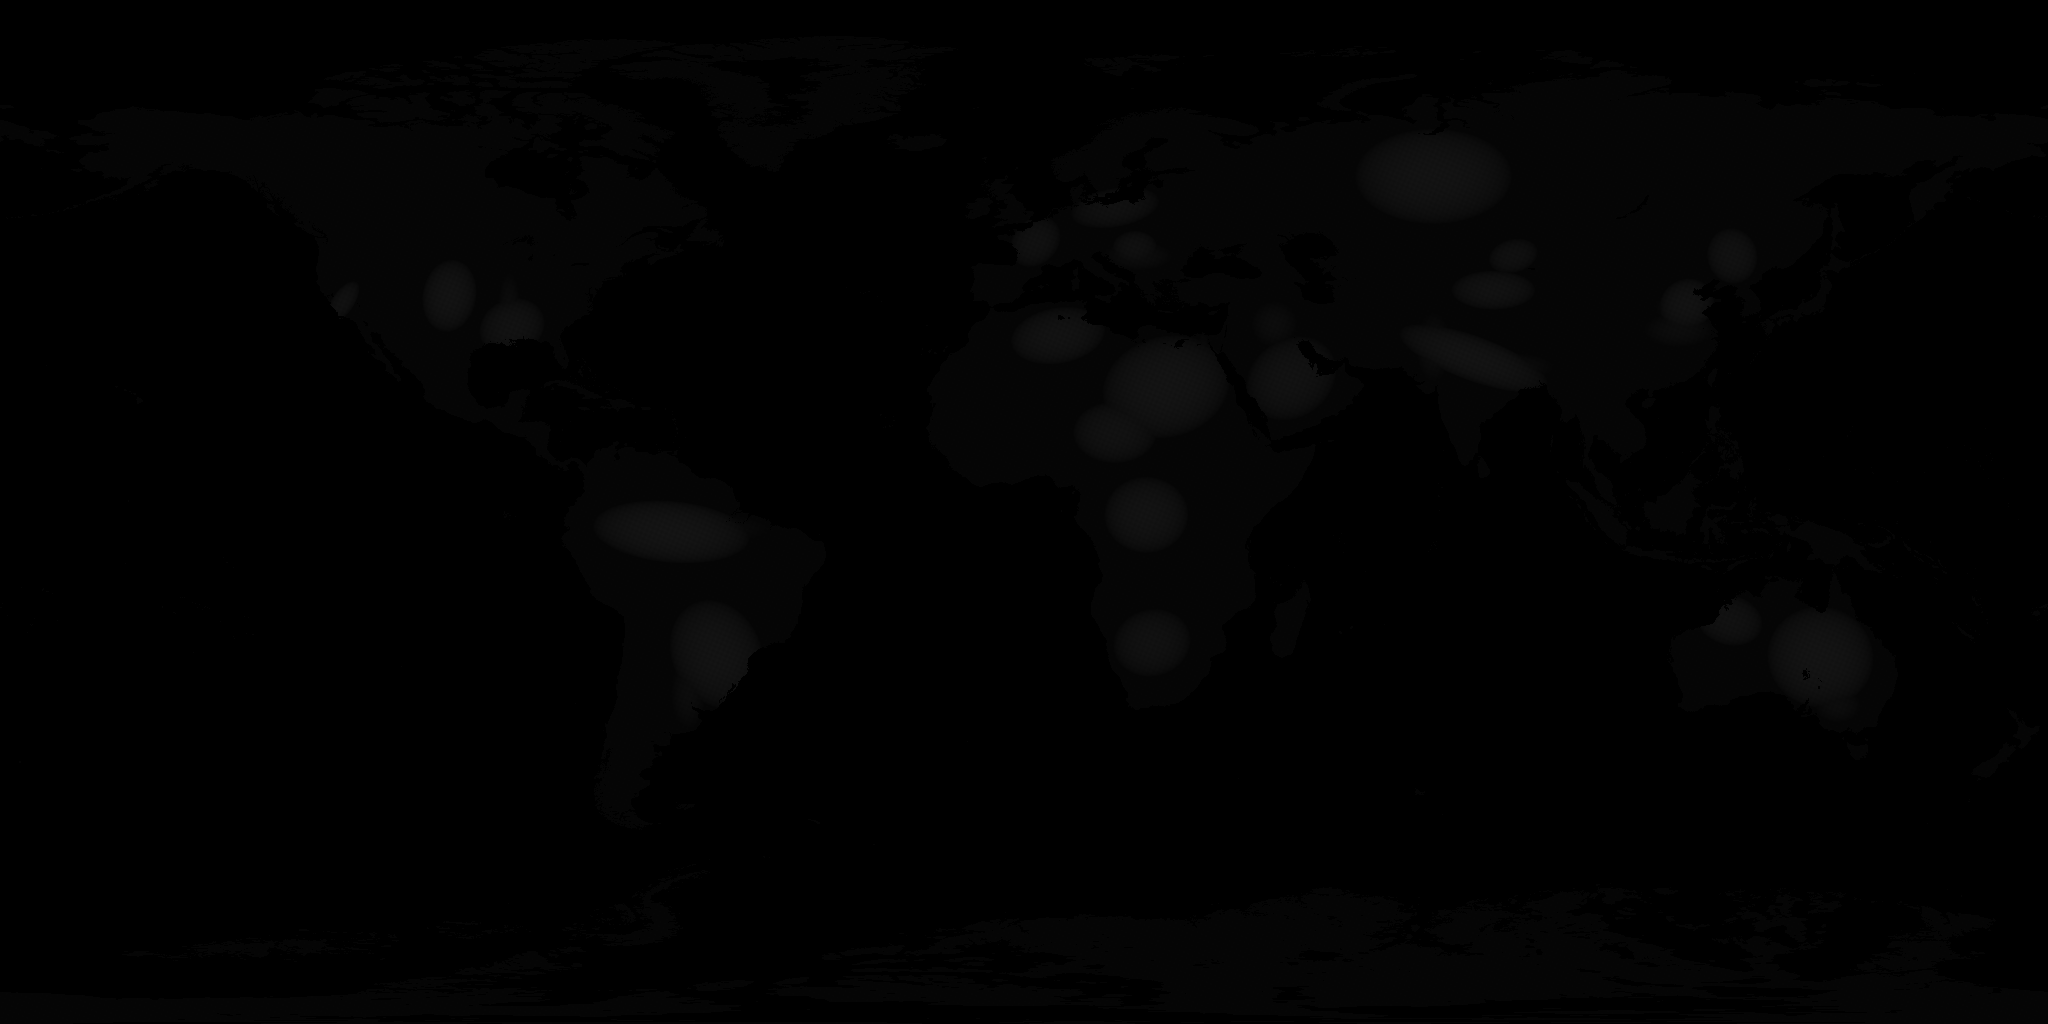
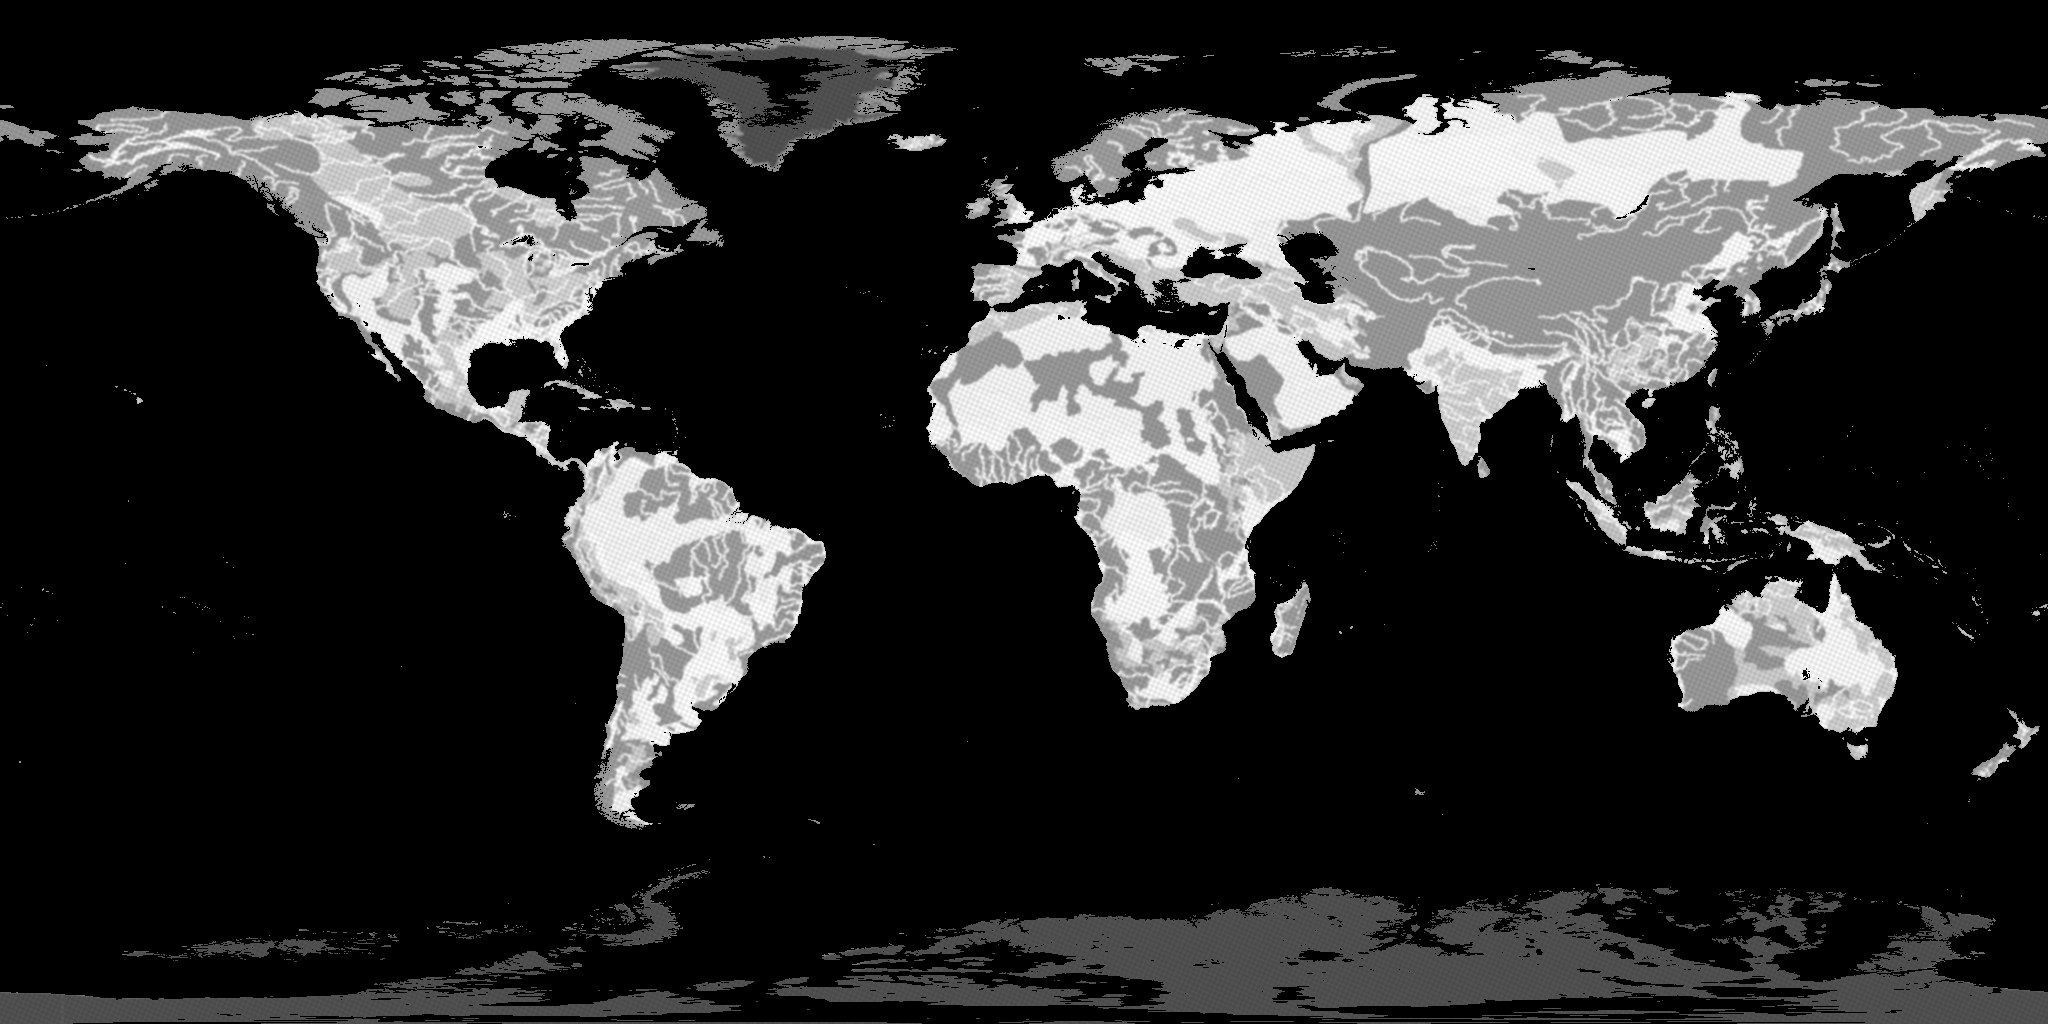
feat(geology): Ingest authentic UNESCO WHYMAP vector polygons for global groundwater aquifers (HYGEO2 classification)

diff --git a/src/main/java/org/ether/society/data/HistoricalMapGenerator.java b/src/main/java/org/ether/society/data/HistoricalMapGenerator.java
@@ -17,6 +17,10 @@ import java.awt.*;
 import java.awt.geom.Path2D;
 import java.awt.image.BufferedImage;
 import java.io.ByteArrayOutputStream;
+import java.io.File;
+import java.io.EOFException;
+import java.nio.ByteBuffer;
+import java.nio.ByteOrder;
 import java.util.ArrayList;
 import java.util.Base64;
 import java.util.List;
@@ -5165,139 +5169,243 @@ public class HistoricalMapGenerator {
     }
 
     public static BufferedImage rasterizeAquiferMap(String type, Scenario scenario) {
+        if (cachedAquiferMap != null) {
+            return cachedAquiferMap;
+        }
+
         int width = 2048, height = 1024;
+        File shpFile = new File("data/maps/whymap_groundwater/extracted/WHYMAP_GWR/shp/whymap_GW_aquifers_v1_poly.shp");
+        if (!shpFile.exists()) {
+            shpFile = new File("data/maps/whymap_groundwater/whymap_GW_aquifers_v1_poly.shp");
+        }
+        File dbfFile = new File("data/maps/whymap_groundwater/extracted/WHYMAP_GWR/shp/whymap_GW_aquifers_v1_poly.dbf");
+        if (!dbfFile.exists()) {
+            dbfFile = new File("data/maps/whymap_groundwater/whymap_GW_aquifers_v1_poly.dbf");
+        }
+        File riversShp = new File("data/maps/whymap_groundwater/extracted/WHYMAP_GWR/shp/whymap_rivers__v1_line.shp");
+        if (!riversShp.exists()) {
+            riversShp = new File("data/maps/whymap_groundwater/whymap_rivers__v1_line.shp");
+        }
+
+        if (shpFile.exists()) {
+            try {
+                // 1. Read DBF hydrogeological classification (HYGEO2)
+                int[] hygeoCodes = null;
+                if (dbfFile.exists()) {
+                    try (java.io.DataInputStream dis = new java.io.DataInputStream(new java.io.BufferedInputStream(new java.io.FileInputStream(dbfFile)))) {
+                        byte[] b32 = new byte[32];
+                        dis.readFully(b32);
+                        int numRecs = (b32[4] & 0xFF) | ((b32[5] & 0xFF) << 8) | ((b32[6] & 0xFF) << 16) | ((b32[7] & 0xFF) << 24);
+                        int headerLen = (b32[8] & 0xFF) | ((b32[9] & 0xFF) << 8);
+                        int recLen = (b32[10] & 0xFF) | ((b32[11] & 0xFF) << 8);
+                        dis.skipBytes(headerLen - 32);
+
+                        hygeoCodes = new int[numRecs];
+                        for (int r = 0; r < numRecs; r++) {
+                            byte del = dis.readByte();
+                            byte[] bHygeo = new byte[5];
+                            dis.readFully(bHygeo);
+                            if (recLen > 6) {
+                                dis.skipBytes(recLen - 6);
+                            }
+                            String sH = new String(bHygeo).trim();
+                            try {
+                                hygeoCodes[r] = Integer.parseInt(sH);
+                            } catch (Exception ignored) {
+                                hygeoCodes[r] = 33;
+                            }
+                        }
+                    }
+                }
+
+                // 2. Render WHYMAP aquifer polygons
+                BufferedImage whymapImg = new BufferedImage(width, height, BufferedImage.TYPE_BYTE_GRAY);
+                Graphics2D gw = whymapImg.createGraphics();
+                gw.setColor(new Color(60, 60, 60)); // Baseline
+                gw.fillRect(0, 0, width, height);
+                gw.setRenderingHint(RenderingHints.KEY_ANTIALIASING, RenderingHints.VALUE_ANTIALIAS_ON);
+
+                try (java.io.DataInputStream disShp = new java.io.DataInputStream(new java.io.BufferedInputStream(new java.io.FileInputStream(shpFile), 65536))) {
+                    disShp.skipBytes(100);
+                    int curRec = 0;
+                    while (true) {
+                        try {
+                            int recNum = disShp.readInt();
+                            int contentLenWords = disShp.readInt();
+                            int contentLenBytes = contentLenWords * 2;
+                            if (contentLenBytes <= 0) { curRec++; continue; }
+                            byte[] recBytes = new byte[contentLenBytes];
+                            disShp.readFully(recBytes);
+                            ByteBuffer bb = ByteBuffer.wrap(recBytes).order(ByteOrder.LITTLE_ENDIAN);
+                            int recShapeType = bb.getInt(0);
+                            if (recShapeType == 5 || recShapeType == 15) {
+                                int code = (hygeoCodes != null && curRec < hygeoCodes.length) ? hygeoCodes[curRec] : 11;
+                                int colorVal;
+                                if (code >= 10 && code <= 19) {
+                                    // Major groundwater basins (sedimentary porous aquifers: NSAS, Ogallala, Guaraní, GAB, West Siberia, Paris basin...)
+                                    colorVal = 215 + (code % 5) * 5; // 215 - 240
+                                } else if (code >= 20 && code <= 29) {
+                                    // Complex hydrogeological structures (fissured / karst / layered)
+                                    colorVal = 135 + (code % 5) * 5; // 135 - 160
+                                } else if (code >= 80) {
+                                    // Ice sheets / Glaciers
+                                    colorVal = 20;
+                                } else {
+                                    // Local and shallow aquifers (low-permeability crystalline shields)
+                                    colorVal = 65 + (code % 5) * 4;  // 65 - 85
+                                }
+
+                                int numParts = bb.getInt(36);
+                                int numPoints = bb.getInt(40);
+                                int[] parts = new int[numParts];
+                                for (int p = 0; p < numParts; p++) {
+                                    parts[p] = bb.getInt(44 + p * 4);
+                                }
+                                int ptsOffset = 44 + numParts * 4;
+                                for (int p = 0; p < numParts; p++) {
+                                    int start = parts[p];
+                                    int end = (p + 1 < numParts) ? parts[p + 1] : numPoints;
+                                    if (end > start) {
+                                        Path2D.Double path = new Path2D.Double();
+                                        for (int pt = start; pt < end; pt++) {
+                                            double px = bb.getDouble(ptsOffset + pt * 16);
+                                            double py = bb.getDouble(ptsOffset + pt * 16 + 8);
+                                            double rx = (px + 180.0) / 360.0 * width;
+                                            double ry = (90.0 - py) / 180.0 * height;
+                                            if (pt == start) path.moveTo(rx, ry);
+                                            else path.lineTo(rx, ry);
+                                        }
+                                        path.closePath();
+                                        gw.setColor(new Color(colorVal, colorVal, colorVal));
+                                        gw.fill(path);
+                                    }
+                                }
+                            }
+                            curRec++;
+                        } catch (EOFException eof) {
+                            break;
+                        }
+                    }
+                }
+
+                // 3. Render WHYMAP rivers
+                if (riversShp.exists()) {
+                    gw.setColor(new Color(230, 230, 230));
+                    gw.setStroke(new BasicStroke(1.6f));
+                    try (java.io.DataInputStream disRiv = new java.io.DataInputStream(new java.io.BufferedInputStream(new java.io.FileInputStream(riversShp), 65536))) {
+                        disRiv.skipBytes(100);
+                        while (true) {
+                            try {
+                                int recNum = disRiv.readInt();
+                                int contentLenWords = disRiv.readInt();
+                                int contentLenBytes = contentLenWords * 2;
+                                if (contentLenBytes <= 0) continue;
+                                byte[] recBytes = new byte[contentLenBytes];
+                                disRiv.readFully(recBytes);
+                                ByteBuffer bb = ByteBuffer.wrap(recBytes).order(ByteOrder.LITTLE_ENDIAN);
+                                int recShapeType = bb.getInt(0);
+                                if (recShapeType == 3 || recShapeType == 13) {
+                                    int numParts = bb.getInt(36);
+                                    int numPoints = bb.getInt(40);
+                                    int[] parts = new int[numParts];
+                                    for (int p = 0; p < numParts; p++) parts[p] = bb.getInt(44 + p * 4);
+                                    int ptsOffset = 44 + numParts * 4;
+                                    for (int p = 0; p < numParts; p++) {
+                                        int start = parts[p];
+                                        int end = (p + 1 < numParts) ? parts[p + 1] : numPoints;
+                                        if (end > start) {
+                                            Path2D.Double path = new Path2D.Double();
+                                            for (int pt = start; pt < end; pt++) {
+                                                double px = bb.getDouble(ptsOffset + pt * 16);
+                                                double py = bb.getDouble(ptsOffset + pt * 16 + 8);
+                                                double rx = (px + 180.0) / 360.0 * width;
+                                                double ry = (90.0 - py) / 180.0 * height;
+                                                if (pt == start) path.moveTo(rx, ry);
+                                                else path.lineTo(rx, ry);
+                                            }
+                                            gw.draw(path);
+                                        }
+                                    }
+                                }
+                            } catch (EOFException eof) {
+                                break;
+                            }
+                        }
+                    }
+                }
+                gw.dispose();
+
+                // 4. Apply Gaussian smoothing kernel
+                float[][] blurred = new float[height][width];
+                float[][] k = {
+                    {0.003f, 0.013f, 0.022f, 0.013f, 0.003f},
+                    {0.013f, 0.059f, 0.097f, 0.059f, 0.013f},
+                    {0.022f, 0.097f, 0.159f, 0.097f, 0.022f},
+                    {0.013f, 0.059f, 0.097f, 0.059f, 0.013f},
+                    {0.003f, 0.013f, 0.022f, 0.013f, 0.003f}
+                };
+
+                for (int y = 0; y < height; y++) {
+                    for (int x = 0; x < width; x++) {
+                        float sum = 0.0f;
+                        for (int dy = -2; dy <= 2; dy++) {
+                            int ny = Math.clamp(y + dy, 0, height - 1);
+                            for (int dx = -2; dx <= 2; dx++) {
+                                int nx = (x + dx + width) % width;
+                                int val = whymapImg.getRGB(nx, ny) & 0xFF;
+                                sum += val * k[dy + 2][dx + 2];
+                            }
+                        }
+                        blurred[y][x] = sum;
+                    }
+                }
+
+                // 5. Apply stratigraphic bed variation texture and coastline mask
+                BufferedImage outImg = new BufferedImage(width, height, BufferedImage.TYPE_INT_RGB);
+                for (int y = 0; y < height; y++) {
+                    double lat = 90.0 - (y + 0.5) / height * 180.0;
+                    for (int x = 0; x < width; x++) {
+                        double lon = -180.0 + (x + 0.5) / width * 360.0;
+                        if (!isLand(lon, lat)) {
+                            outImg.setRGB(x, y, 0x000000);
+                            continue;
+                        }
+                        float rawVal = blurred[y][x];
+                        double stratNoise = 0.94 + 0.12 * (Math.sin(lon * 5.0 + lat * 2.0) * Math.cos(lat * 5.0 - lon * 2.0) * 0.5 + 0.5);
+                        int lum = Math.clamp((int) Math.round(rawVal * stratNoise), 0, 255);
+                        outImg.setRGB(x, y, (lum << 16) | (lum << 8) | lum);
+                    }
+                }
+                BufferedImage finalMasked = applyAltimetryCoastlineMask(outImg);
+                cachedAquiferMap = finalMasked;
+                return finalMasked;
+            } catch (Exception e) {
+                logger.warn("WHYMAP shapefile ingestion notice: {}, using procedural aquifer model", e.getMessage());
+            }
+        }
+
+        // Procedural Fallback if shapefile is missing
         BufferedImage img = new BufferedImage(width, height, BufferedImage.TYPE_INT_RGB);
         BufferedImage mask = loadElevationMask();
-
-        // Authentic UNESCO WHYMAP 2022 Regional Sedimentary Basin Groundwater Formations
-        // {centerLon, centerLat, semiLon, semiLat, angleDeg, maxLuminance}
-        double[][] sedimentaryAquiferBasins = {
-            // Nubian Sandstone Aquifer System (NSAS - Egypt, Libya, Chad, Sudan: 2.2M km²)
-            {25.0, 22.0, 11.5, 9.0, 15.0, 240.0},
-            // Ogallala / High Plains Aquifer (US Midwest: 450,000 km²)
-            {-101.0, 38.0, 4.8, 6.5, -10.0, 230.0},
-            // Guaraní Aquifer System (Paraná Basin - Brazil, Paraguay, Argentina, Uruguay: 1.2M km²)
-            {-54.0, -25.0, 8.0, 10.0, 25.0, 235.0},
-            // Great Artesian Basin (GAB - Eastern/Central Australia: 1.7M km²)
-            {140.0, -25.5, 9.5, 9.0, -15.0, 240.0},
-            // Northwest Sahara Aquifer System (NWSAS / SASS - Algeria, Tunisia, Libya: 1.0M km²)
-            {6.0, 31.0, 8.5, 5.0, 10.0, 225.0},
-            // Indo-Gangetic Alluvial Foreland Basin (Indus, Ganges, Brahmaputra)
-            {79.0, 27.0, 14.0, 4.0, -20.0, 235.0},
-            // North China Plain Cenozoic Aquifer (Huang-Huai-Hai Plain)
-            {116.5, 36.5, 5.0, 4.5, 30.0, 225.0},
-            // Songliao Sedimentary Basin (Northeast China)
-            {124.5, 45.0, 4.5, 5.0, 15.0, 210.0},
-            // West Siberian Artesian Basin (Vast Mesozoic-Cenozoic Sedimentary Basin: 3.0M km²)
-            {72.0, 59.0, 14.0, 8.5, 0.0, 230.0},
-            // Amazon Sedimentary Basin (Alter do Chão / Solimões Alluvial Trough)
-            {-62.0, -3.5, 14.0, 5.5, -5.0, 245.0},
-            // Congo Sedimentary Basin (Cuvette Centrale)
-            {21.5, -0.5, 7.5, 6.8, 0.0, 230.0},
-            // Paris & Aquitaine Mesozoic Synclines (Western Europe)
-            {2.0, 47.5, 5.0, 4.0, 45.0, 205.0},
-            // Canning Basin Sedimentary Aquifer (Western Australia)
-            {124.0, -19.0, 6.0, 4.5, -15.0, 210.0},
-            // Tarim Basin Endorheic Aquifer (Taklamakan Basin)
-            {82.5, 39.0, 7.5, 3.5, 0.0, 215.0},
-            // California Central Valley Forearc Alluvium
-            {-119.8, 36.8, 2.0, 4.5, -35.0, 205.0},
-            // Arabian Sedimentary Formations (Wajid, Wasia-Biyadh, Rub' al Khali)
-            {47.0, 23.5, 8.5, 7.0, 35.0, 220.0},
-            // Chad Basin Continental Terminal
-            {16.0, 14.0, 7.5, 5.5, 0.0, 215.0},
-            // Kalahari & Karoo Sandstone Basins (Southern Africa)
-            {22.5, -23.0, 7.0, 6.0, 15.0, 210.0},
-            // Mississippi Embayment / Gulf Coastal Plain Aquifer
-            {-90.0, 32.5, 6.0, 5.0, 25.0, 220.0},
-            // Baltic & North German Sedimentary Basin
-            {16.0, 53.5, 8.0, 3.5, 10.0, 200.0},
-            // Pannonian Basin (Danube / Carpathian Foredeep)
-            {19.5, 46.5, 4.0, 3.0, 0.0, 195.0},
-            // Dzungarian Basin (Northwest China)
-            {86.0, 45.0, 4.5, 3.0, 15.0, 195.0}
-        };
-
-        // Major Continental Alluvial Floodplains (Groundwater recharge corridors)
-        double[][] majorAlluvials = {
-            {31.5, 26.0, 1.2, 5.5},    // Nile Valley Alluvium
-            {-90.5, 35.0, 2.0, 7.0},   // Mississippi Alluvial Valley
-            {-60.0, -3.0, 15.0, 3.0},  // Amazon River Trough
-            {-59.0, -32.0, 3.0, 6.0},  // Paraná-Río de la Plata Basin
-            {72.0, 29.0, 3.0, 6.0},    // Indus River Floodplain
-            {85.0, 25.5, 8.0, 2.5},    // Ganges-Brahmaputra Floodplain
-            {115.0, 32.0, 6.0, 3.0},   // Yangtze Lower Plain
-            {116.0, 36.0, 5.0, 3.0},   // Yellow River Alluvial Fan
-            {20.0, 45.0, 6.0, 2.5},    // Danube Plain Alluvium
-            {44.0, 33.0, 4.0, 4.0},    // Tigris-Euphrates Mesopotamia
-            {143.0, -34.0, 4.0, 3.0}   // Murray-Darling Basin
-        };
-
         for (int y = 0; y < height; y++) {
             double lat = 90.0 - (y + 0.5) / height * 180.0;
             for (int x = 0; x < width; x++) {
                 double lon = -180.0 + (x + 0.5) / width * 360.0;
-
                 int mx = Math.clamp((int) ((x + 0.5) * (mask != null ? mask.getWidth() : width) / width), 0, (mask != null ? mask.getWidth() : width) - 1);
                 int my = Math.clamp((int) ((y + 0.5) * (mask != null ? mask.getHeight() : height) / height), 0, (mask != null ? mask.getHeight() : height) - 1);
                 int land = (mask != null) ? mask.getRaster().getSample(mx, my, 0) : 255;
-
                 if (land == 0 || !isLand(lon, lat)) {
                     img.setRGB(x, y, 0x000000);
                     continue;
                 }
-
-                // Elevation screening: Lowland sedimentary plains have thick alluvial storage, high crests have poor retention
                 double elevM = (mask != null) ? (land / 255.0) * 8848.0 : 200.0;
-                double orographicCapacityFactor;
-                if (elevM <= 350.0) {
-                    orographicCapacityFactor = 1.0;
-                } else if (elevM <= 1000.0) {
-                    orographicCapacityFactor = 1.0 - (elevM - 350.0) / 650.0 * 0.70;
-                } else {
-                    orographicCapacityFactor = Math.max(0.08, 0.30 - (elevM - 1000.0) / 2000.0 * 0.22);
-                }
-
-                // Continental baseline groundwater for all sedimentary lowlands (55-80)
+                double orographicCapacityFactor = elevM <= 350.0 ? 1.0 : (elevM <= 1000.0 ? 1.0 - (elevM - 350.0) / 650.0 * 0.70 : Math.max(0.08, 0.30 - (elevM - 1000.0) / 2000.0 * 0.22));
                 double aquiferYield = 65.0 * orographicCapacityFactor;
-
-                // Alluvial floodplain recharge corridors
-                for (double[] al : majorAlluvials) {
-                    double dLon = (lon - al[0]) / al[2];
-                    double dLat = (lat - al[1]) / al[3];
-                    double d2 = dLon * dLon + dLat * dLat;
-                    if (d2 < 1.0) {
-                        double boost = (1.0 - d2) * 85.0 * orographicCapacityFactor;
-                        aquiferYield += boost;
-                    }
-                }
-
-                // Sum contribution across bounded sedimentary basin formations (anisotropic rotated ellipses)
-                for (double[] b : sedimentaryAquiferBasins) {
-                    double rad = Math.toRadians(b[4]);
-                    double cosA = Math.cos(rad);
-                    double sinA = Math.sin(rad);
-                    double dx = lon - b[0];
-                    double dy = lat - b[1];
-                    double rotX = (dx * cosA + dy * sinA) / b[2];
-                    double rotY = (-dx * sinA + dy * cosA) / b[3];
-                    double distNormSq = rotX * rotX + rotY * rotY;
-
-                    if (distNormSq < 1.0) {
-                        // Structural basin profile with realistic parabolic sediment compaction gradient
-                        double basinProfile = 1.0 - distNormSq;
-                        double yield = b[5] * Math.pow(basinProfile, 0.35) * orographicCapacityFactor;
-                        aquiferYield = Math.max(aquiferYield, yield);
-                    }
-                }
-
-                // Micro-lithological sandstone/alluvium texture (12% realistic stratigraphic bed variation)
                 double stratNoise = 0.92 + 0.16 * (Math.sin(lon * 5.0 + lat * 2.0) * Math.cos(lat * 5.0 - lon * 2.0) * 0.5 + 0.5);
                 int finalLuminance = Math.clamp((int) Math.round(aquiferYield * stratNoise), 0, 255);
                 img.setRGB(x, y, (finalLuminance << 16) | (finalLuminance << 8) | finalLuminance);
             }
         }
-
         cachedAquiferMap = img;
         return applyAltimetryCoastlineMask(img);
     }

diff --git a/src/test/java/org/ether/society/data/InspectMapsTest.java b/src/test/java/org/ether/society/data/InspectMapsTest.java
@@ -4,6 +4,8 @@ import org.junit.jupiter.api.Test;
 import javax.imageio.ImageIO;
 import java.awt.image.BufferedImage;
 import java.io.File;
+import java.util.List;
+import java.util.ArrayList;
 
 public class InspectMapsTest {
     @Test
